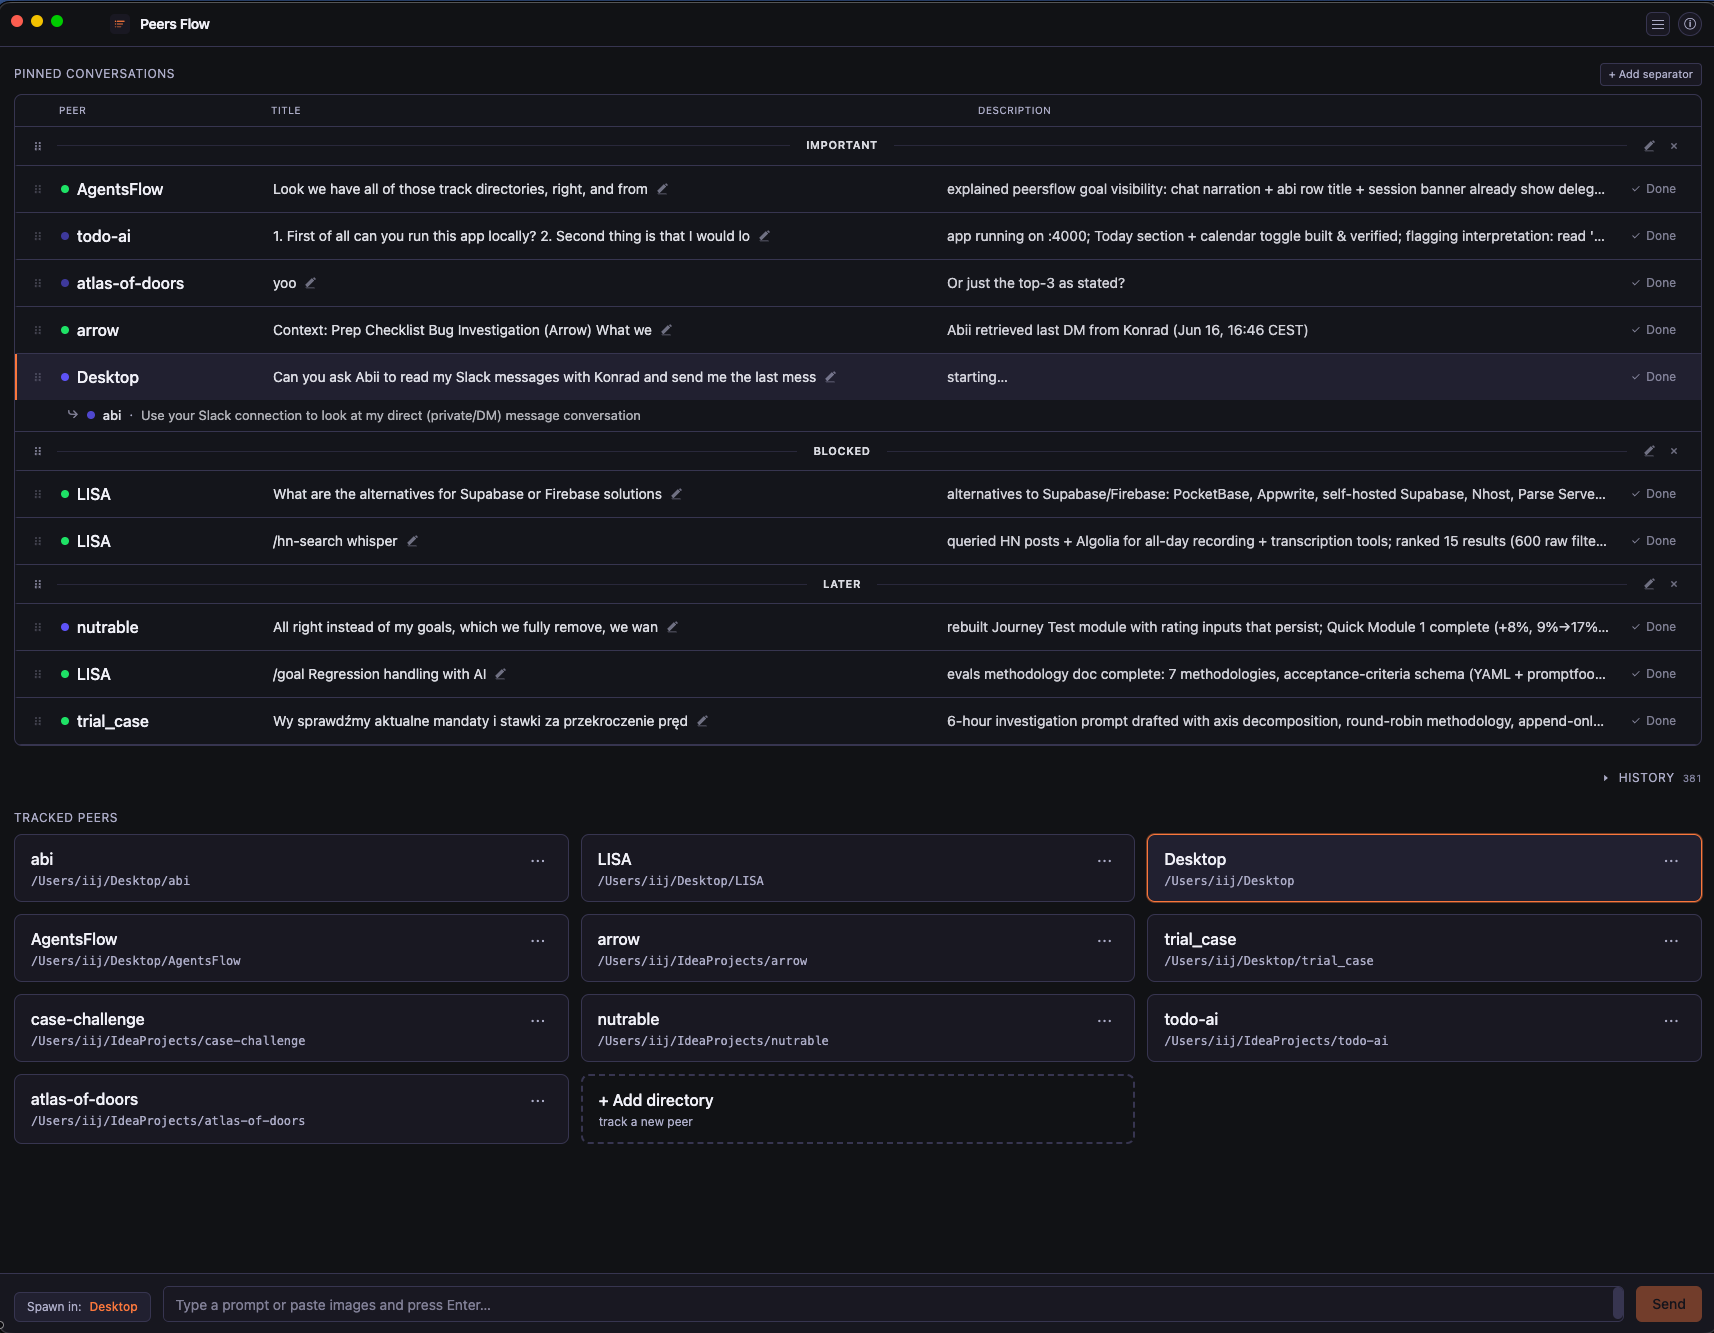
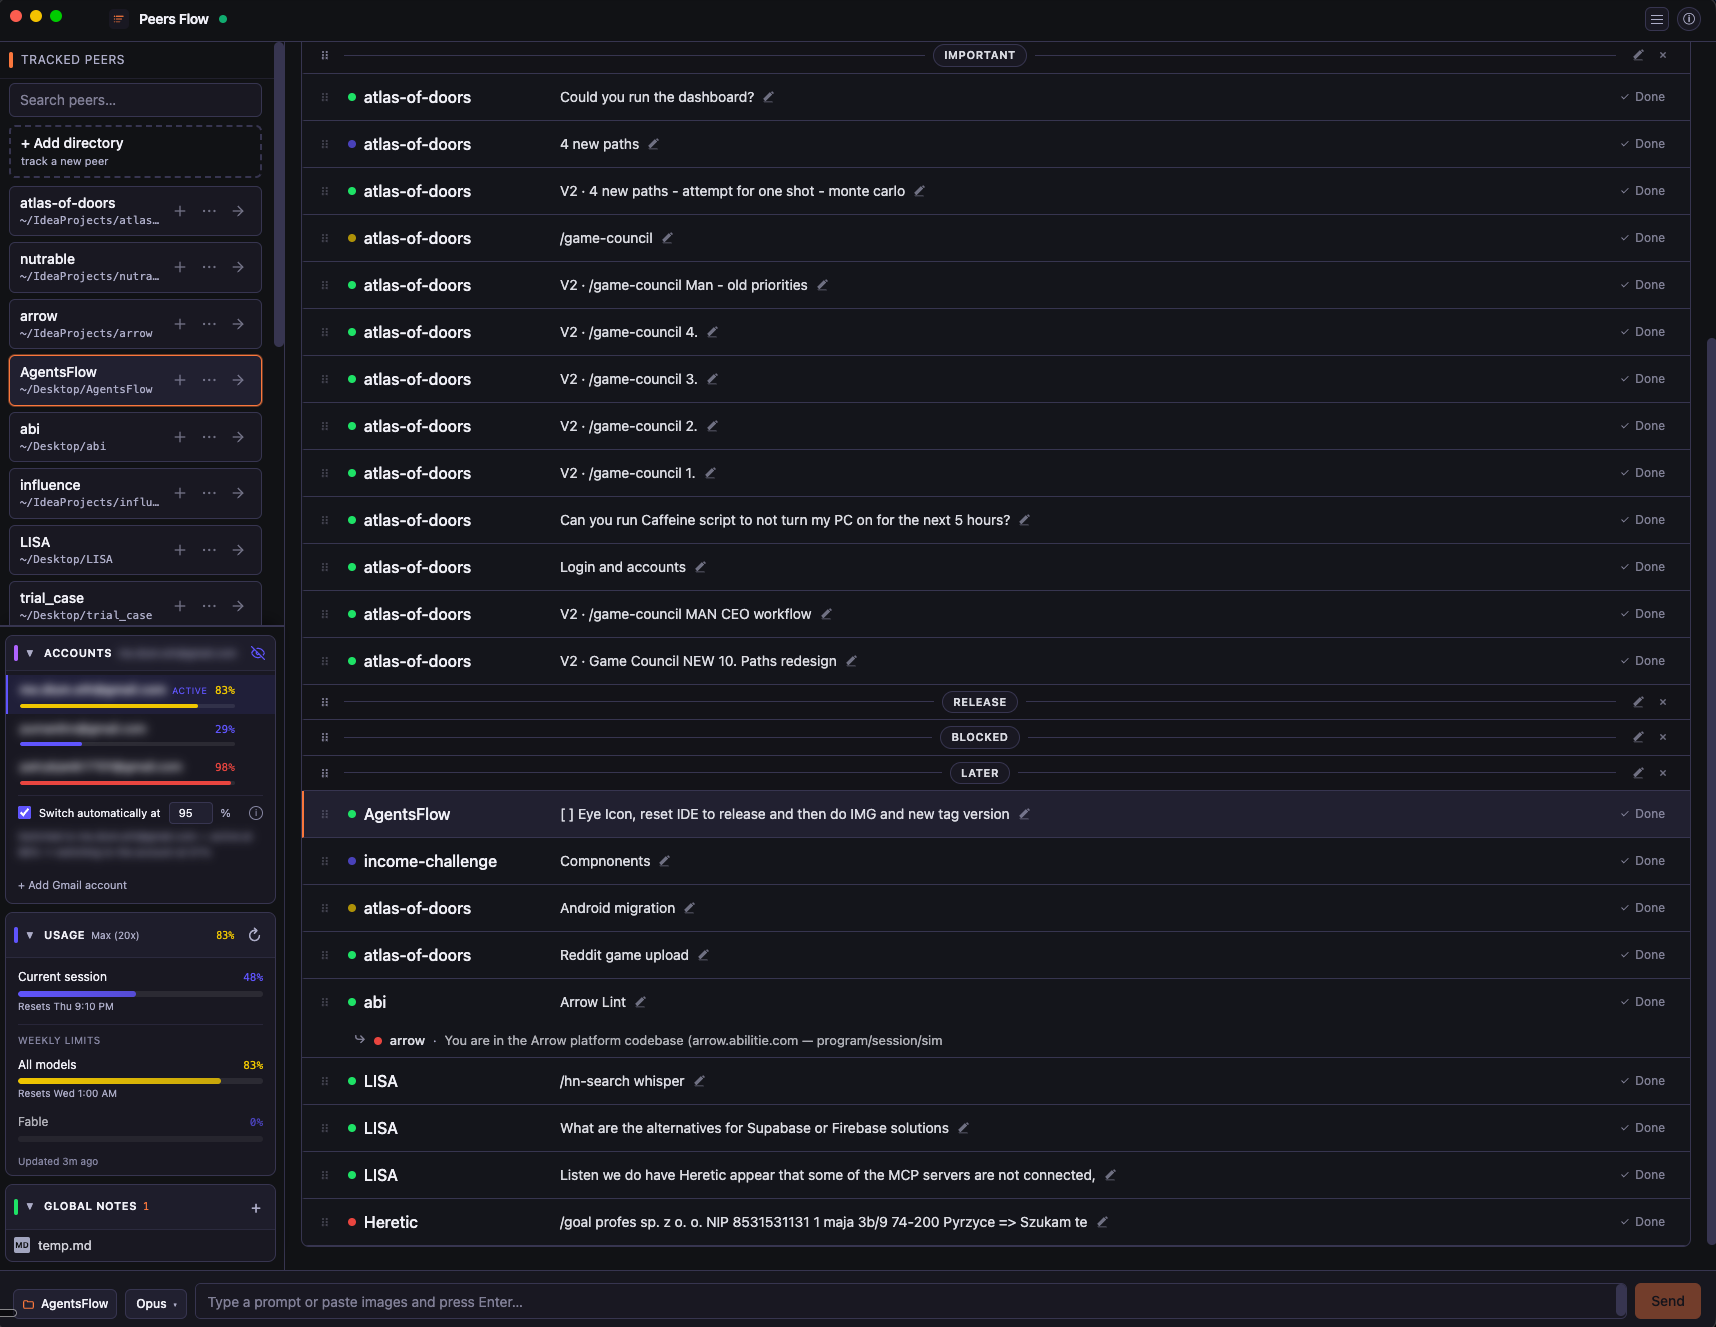
feat: hide account emails behind an eye toggle, tuck the explainer away
- Auto-switch explainer moved behind a ⓘ icon — hover or click to read it,
  instead of it costing three permanent lines of the sidebar
- New eye toggle in the Accounts header blurs every email in the panel for
  screen sharing, and remembers the choice across restarts
- Hiding covers the active account in the header, the rows, hover tooltips
  and the whole "switched to X at 96%" status line — not just the addresses
- Rotation failures and errors stay readable while hidden, with only the
  address blurred, so a real problem is never masked away
- New README hero screenshot showing the account pool and usage meters
- Bump to v9.0.0

Changed region(s): [[0.0, 0.0, 1.0, 1.0], [0.5257, 0.0309, 0.6184, 0.0927]]

diff --git a/renderer/components/AccountsPanel.tsx b/renderer/components/AccountsPanel.tsx
@@ -1,6 +1,8 @@
 import { useCallback, useEffect, useRef, useState } from 'react';
+import { createPortal } from 'react-dom';
 import dynamic from 'next/dynamic';
 import { api } from '../lib/ipc';
+import type { CSSProperties, ReactNode } from 'react';
 import type { Account, AccountsSnapshot, RotationPolicy, RotationStatus, UsageMeter, UsageResult } from '../../shared/types';
 
 const Terminal = dynamic(() => import('./Terminal'), { ssr: false });
@@ -27,6 +29,141 @@ const USAGE_REFRESH_MS = 60_000;
 // How often we ask whether the browser login has landed while the modal is open.
 const PROBE_MS = 2500;
 
+const HINT_WIDTH = 250;
+
+/**
+ * A `ⓘ` affordance for prose that is worth having but not worth three permanent
+ * lines of a narrow sidebar. Opens on hover, and a click pins it open so it can
+ * be read without keeping the pointer parked on the icon.
+ *
+ * The bubble renders into `document.body`: every ancestor here is either a
+ * clipping scroll container or `overflow-hidden`, so an in-flow popover would be
+ * cropped to a sliver.
+ */
+function InfoHint({ label, children }: { label: string; children: ReactNode }) {
+  const anchor = useRef<HTMLButtonElement>(null);
+  const bubble = useRef<HTMLDivElement>(null);
+  const [pinned, setPinned] = useState(false);
+  const [hovering, setHovering] = useState(false);
+  const [at, setAt] = useState<{ top: number; left: number } | null>(null);
+  const shown = pinned || hovering;
+
+  // The bubble sits a few pixels below the icon, so closing on `mouseleave`
+  // alone would slam it shut in the gap on the way to reading it.
+  const closeTimer = useRef<ReturnType<typeof setTimeout> | null>(null);
+  const enter = useCallback(() => {
+    if (closeTimer.current) { clearTimeout(closeTimer.current); closeTimer.current = null; }
+    setHovering(true);
+  }, []);
+  const leave = useCallback(() => {
+    if (closeTimer.current) clearTimeout(closeTimer.current);
+    closeTimer.current = setTimeout(() => setHovering(false), 150);
+  }, []);
+  useEffect(() => () => { if (closeTimer.current) clearTimeout(closeTimer.current); }, []);
+
+  // The bubble lives on <body>, so it has to be told where its anchor ended up —
+  // and re-told whenever the sidebar scrolls out from under it.
+  useEffect(() => {
+    if (!shown) { setAt(null); return; }
+    const measure = () => {
+      const r = anchor.current?.getBoundingClientRect();
+      if (!r) return;
+      setAt({
+        top: r.bottom + 6,
+        left: Math.max(8, Math.min(r.left - 4, window.innerWidth - HINT_WIDTH - 8)),
+      });
+    };
+    measure();
+    // `true` so it also follows scrolling of the panel itself, not just the window.
+    window.addEventListener('scroll', measure, true);
+    window.addEventListener('resize', measure);
+    return () => {
+      window.removeEventListener('scroll', measure, true);
+      window.removeEventListener('resize', measure);
+    };
+  }, [shown]);
+
+  // A pinned bubble is dismissed the two ways anything pinned should be:
+  // clicking away from it, or Escape.
+  useEffect(() => {
+    if (!pinned) return;
+    const onDown = (e: MouseEvent) => {
+      const t = e.target as Node;
+      if (anchor.current?.contains(t) || bubble.current?.contains(t)) return;
+      setPinned(false);
+    };
+    const onKey = (e: KeyboardEvent) => {
+      if (e.key === 'Escape') { e.stopPropagation(); setPinned(false); }
+    };
+    window.addEventListener('mousedown', onDown, true);
+    window.addEventListener('keydown', onKey, true);
+    return () => {
+      window.removeEventListener('mousedown', onDown, true);
+      window.removeEventListener('keydown', onKey, true);
+    };
+  }, [pinned]);
+
+  return (
+    <>
+      <button
+        ref={anchor}
+        type="button"
+        onClick={(e) => { e.preventDefault(); setPinned((p) => !p); }}
+        onMouseEnter={enter}
+        onMouseLeave={leave}
+        onFocus={enter}
+        onBlur={leave}
+        aria-label={label}
+        aria-expanded={shown}
+        className={`shrink-0 w-3.5 h-3.5 rounded-full border text-[9px] leading-none flex items-center justify-center ${
+          shown ? 'border-info text-info' : 'border-subtle text-subtle hover:border-info hover:text-info'
+        }`}
+      >
+        i
+      </button>
+      {shown && at && typeof document !== 'undefined' && createPortal(
+        <div
+          ref={bubble}
+          role="tooltip"
+          // Hovering the bubble itself counts as hovering the hint, so reading
+          // it (or selecting its text) does not dismiss it mid-sentence.
+          onMouseEnter={enter}
+          onMouseLeave={leave}
+          className="fixed z-[60] rounded-md border border-border bg-panel2 px-2.5 py-2 text-[10px] text-text leading-relaxed shadow-lg shadow-black/40"
+          style={{ top: at.top, left: at.left, width: HINT_WIDTH }}
+        >
+          {children}
+        </div>,
+        document.body,
+      )}
+    </>
+  );
+}
+
+// Blur, not redaction: the layout stays byte-for-byte identical, so toggling it
+// never reflows the panel out from under you.
+const MASK: CSSProperties = { filter: 'blur(4.5px)' };
+
+const EMAIL_RE = /[^\s@]+@[^\s@]+\.[^\s@,;)]+/g;
+
+/**
+ * Blurs any address inside a sentence, so status lines can go on naming the
+ * account they switched to without putting it on screen.
+ */
+function maskEmails(text: string, masked: boolean): ReactNode {
+  if (!masked || !text.includes('@')) return text;
+  const out: ReactNode[] = [];
+  let last = 0;
+  for (const m of text.matchAll(EMAIL_RE)) {
+    const i = m.index ?? 0;
+    if (i > last) out.push(text.slice(last, i));
+    out.push(<span key={i} style={MASK} className="select-none">{m[0]}</span>);
+    last = i + m[0].length;
+  }
+  out.push(text.slice(last));
+  return out;
+}
+
 const SEVERITY_COLOR: Record<UsageMeter['severity'], string> = {
   normal: '#3b82f6',
   warning: '#fbbf24',
@@ -46,6 +183,7 @@ function AccountRow({
   active,
   usage,
   busy,
+  masked,
   onSwitch,
   onRemove,
 }: {
@@ -53,6 +191,7 @@ function AccountRow({
   active: boolean;
   usage: UsageResult | undefined;
   busy: boolean;
+  masked: boolean;
   onSwitch: () => void;
   onRemove: () => void;
 }) {
@@ -68,10 +207,15 @@ function AccountRow({
         onClick={onSwitch}
         disabled={active || busy}
         className="flex-1 min-w-0 text-left disabled:cursor-default"
-        title={active ? 'This account is signed in' : `Switch to ${account.email}`}
+        // Hover tooltips are a leak of their own: with emails hidden, they say
+        // what the button does without saying whose account it is.
+        title={active ? 'This account is signed in' : masked ? 'Switch to this account' : `Switch to ${account.email}`}
       >
         <div className="flex items-baseline gap-1.5">
-          <span className={`text-[12px] truncate ${active ? 'text-text font-semibold' : 'text-text'}`}>
+          <span
+            className={`text-[12px] truncate ${active ? 'text-text font-semibold' : 'text-text'} ${masked ? 'select-none' : ''}`}
+            style={masked ? MASK : undefined}
+          >
             {account.email}
           </span>
           {active && (
@@ -94,8 +238,8 @@ function AccountRow({
         onClick={onRemove}
         disabled={busy}
         className="shrink-0 opacity-0 group-hover:opacity-100 text-subtle hover:text-danger px-1 rounded disabled:opacity-30"
-        title={`Remove ${account.email} from the pool`}
-        aria-label={`Remove ${account.email}`}
+        title={masked ? 'Remove this account from the pool' : `Remove ${account.email} from the pool`}
+        aria-label={masked ? 'Remove this account' : `Remove ${account.email}`}
       >
         ✕
       </button>
@@ -244,6 +388,10 @@ function AddAccountModal({
 
 export default function AccountsPanel() {
   const [open, setOpen] = usePersistedBool('agentsflow:accounts:open', true);
+  // Screen-sharing privacy: the pool is a list of the user's personal Gmail
+  // addresses sitting permanently in the sidebar. Persisted, so it stays hidden
+  // across restarts once you have decided you want it hidden.
+  const [masked, setMasked] = usePersistedBool('agentsflow:accounts:maskEmails', false);
   const [snapshot, setSnapshot] = useState<AccountsSnapshot>({ accounts: [], activeId: null });
   const [usageById, setUsageById] = useState<Record<string, UsageResult>>({});
   const [adding, setAdding] = useState(false);
@@ -376,10 +524,36 @@ export default function AccountsPanel() {
         >
           <span className="text-muted text-[10px] w-3 shrink-0">{open ? '▼' : '▶'}</span>
           <span className="text-[11px] uppercase tracking-wider text-text font-semibold">Accounts</span>
-          <span className="text-[10px] text-muted truncate">
+          <span
+            className={`text-[10px] text-muted truncate ${masked && activeAccount ? 'select-none' : ''}`}
+            style={masked && activeAccount ? MASK : undefined}
+          >
             {activeAccount ? activeAccount.email : snapshot.accounts.length === 0 ? 'none yet' : 'current login'}
           </span>
         </button>
+        {snapshot.accounts.length > 0 && (
+          <button
+            onClick={() => setMasked(!masked)}
+            className={`shrink-0 p-0.5 rounded ${masked ? 'text-info' : 'text-subtle hover:text-text'}`}
+            title={masked ? 'Show email addresses' : 'Hide email addresses (for screen sharing)'}
+            aria-label={masked ? 'Show email addresses' : 'Hide email addresses'}
+            aria-pressed={masked}
+          >
+            <svg width="14" height="14" viewBox="0 0 24 24" fill="none" stroke="currentColor" strokeWidth="2" strokeLinecap="round" strokeLinejoin="round" aria-hidden="true">
+              {masked ? (
+                <>
+                  <path d="M17.94 17.94A10.07 10.07 0 0 1 12 20c-7 0-11-8-11-8a18.45 18.45 0 0 1 5.06-5.94M9.9 4.24A9.12 9.12 0 0 1 12 4c7 0 11 8 11 8a18.5 18.5 0 0 1-2.16 3.19m-6.72-1.07a3 3 0 1 1-4.24-4.24" />
+                  <line x1="1" y1="1" x2="23" y2="23" />
+                </>
+              ) : (
+                <>
+                  <path d="M1 12s4-8 11-8 11 8 11 8-4 8-11 8-11-8-11-8z" />
+                  <circle cx="12" cy="12" r="3" />
+                </>
+              )}
+            </svg>
+          </button>
+        )}
       </div>
 
       {open && (
@@ -403,6 +577,7 @@ export default function AccountsPanel() {
                   active={account.id === snapshot.activeId}
                   usage={usageById[account.id]}
                   busy={busy}
+                  masked={masked}
                   onSwitch={() => switchTo(account.id)}
                   onRemove={() => remove(account)}
                 />
@@ -410,7 +585,7 @@ export default function AccountsPanel() {
 
               {error && (
                 <div className="mx-3 my-1.5 px-2 py-1.5 rounded border border-danger/40 bg-danger/10 text-[11px] text-danger leading-relaxed">
-                  {error}
+                  {maskEmails(error, masked)}
                 </div>
               )}
 
@@ -425,7 +600,10 @@ export default function AccountsPanel() {
                       onChange={(e) => void savePolicy({ ...policy, enabled: e.target.checked })}
                       className="accent-info"
                     />
-                    <span className="text-[11px] text-text">Switch automatically at</span>
+                    {/* The label is the only part allowed to give up room: a
+                        narrow sidebar should clip the sentence, not shove the
+                        threshold or the ⓘ off the edge. */}
+                    <span className="text-[11px] text-text min-w-0 truncate">Switch automatically at</span>
                     <input
                       type="number"
                       min={50}
@@ -435,19 +613,34 @@ export default function AccountsPanel() {
                         const n = Number(e.target.value);
                         if (Number.isFinite(n)) void savePolicy({ ...policy, threshold: n });
                       }}
-                      className="w-11 bg-panel2 border border-border rounded px-1 py-0.5 text-[11px] text-text text-right focus:outline-none focus:border-info"
+                      className="shrink-0 w-11 bg-panel2 border border-border rounded px-1 py-0.5 text-[11px] text-text text-right focus:outline-none focus:border-info"
                     />
-                    <span className="text-[11px] text-muted">%</span>
+                    <span className="shrink-0 text-[11px] text-muted">%</span>
+                    {/* The explainer is one-time knowledge, so it lives behind
+                        the ⓘ rather than costing three lines of sidebar forever. */}
+                    <span className="ml-auto flex items-center" onClick={(e) => e.preventDefault()}>
+                      <InfoHint label="About automatic switching">
+                        Runs in the background even with the window closed, so an overnight run rolls
+                        onto a fresh account instead of hitting the wall.
+                      </InfoHint>
+                    </span>
                   </label>
-                  <p className="mt-1 text-[10px] text-subtle leading-relaxed">
-                    Runs in the background even with the window closed, so an overnight run rolls
-                    onto a fresh account instead of hitting the wall.
-                  </p>
                   {rotationStatus?.disabledReason && (
-                    <p className="mt-1 text-[10px] text-danger leading-relaxed">{rotationStatus.disabledReason}</p>
+                    <p className="mt-1 text-[10px] text-danger leading-relaxed">
+                      {maskEmails(rotationStatus.disabledReason, masked)}
+                    </p>
                   )}
+                  {/* The whole line goes behind the eye, not just the address in
+                      it: "switched to X at 96%" is a readout of the account and
+                      its headroom, which is the thing you are hiding. */}
                   {!rotationStatus?.disabledReason && rotationStatus?.lastEvent && (
-                    <p className="mt-1 text-[10px] text-muted leading-relaxed">{rotationStatus.lastEvent}</p>
+                    <p
+                      className={`mt-1 text-[10px] text-muted leading-relaxed ${masked ? 'select-none' : ''}`}
+                      style={masked ? MASK : undefined}
+                      title={masked ? 'Hidden — use the eye icon to show' : undefined}
+                    >
+                      {rotationStatus.lastEvent}
+                    </p>
                   )}
                 </div>
               )}

diff --git a/README.md b/README.md
@@ -1,6 +1,6 @@
 # Peers Flow
 
-![Peers Flow — pinned conversations with a delegated peer nested under its root, and tracked peers below](./assets/screenshots/peers-flow.png)
+![Peers Flow — tracked peers, a rotating account pool with live plan-usage meters, and pinned conversations grouped under separators](./assets/screenshots/peers-flow.png)
 
 Electron + Next.js desktop UI for **Claude Code's background agents** — track the sessions this app launches, treat them like a to-do list, inspect each one's working tree without leaving the window, and let your agents **delegate work to one another across directories**.
 
@@ -27,6 +27,7 @@ Built to scratch four specific itches working with Claude Code day-to-day:
   - **Files** — full project tree, with the same git colors layered on, ignored files & dirs faded
   - Expand/collapse state is persisted per conversation.
 - **Image paste** — paste an image into the spawn input; it's saved to `<dir>/.agentsflow/images/` and the absolute path is appended to the prompt so Claude can `Read` it. Auto-cleaned when the conversation is removed (and orphan-swept on startup).
+- **Account pool + usage meters** — the sidebar shows live plan usage (session / weekly / per-model) and the Gmail accounts you rotate between, each with its own headroom. Switching is one click and never reopens a browser; **Switch automatically at N%** rolls an overnight run onto a fresh account instead of letting it hit the 5-hour wall. The 👁 toggle blurs every address in the panel for screen sharing.
 - **Help modal** — `ⓘ` button in the top right lists all shortcuts and shows the app version.
 
 ## Requirements
